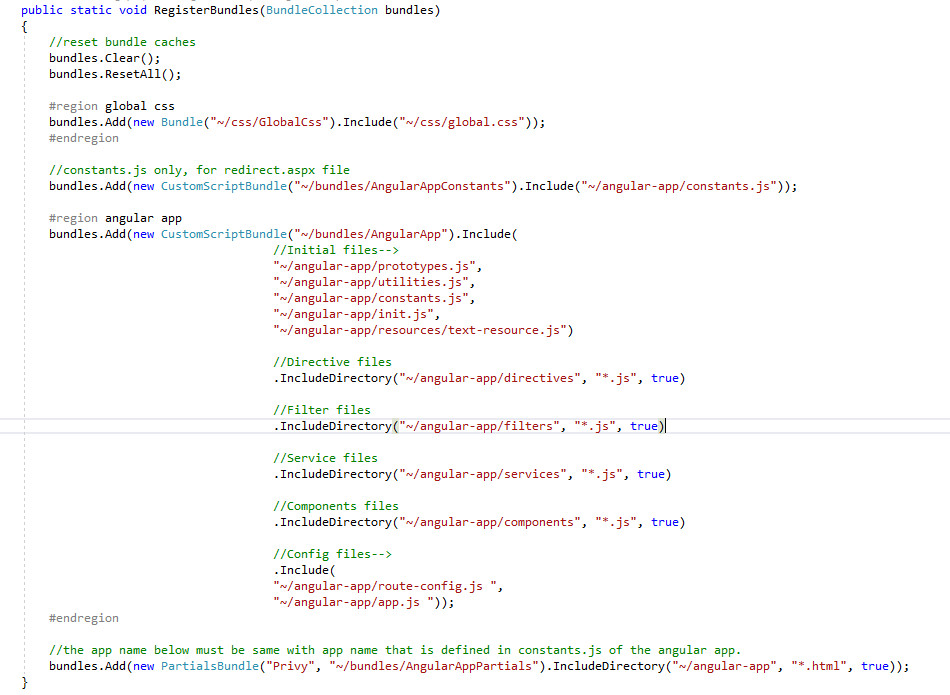
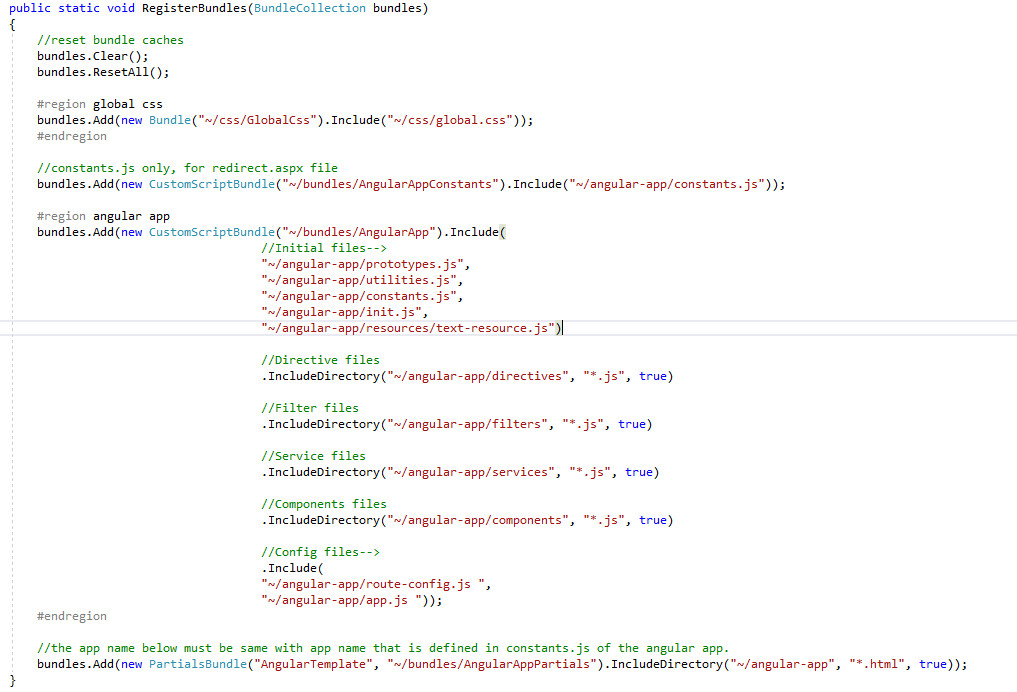
change bundle.jpg

diff --git a/AngularTemplate/AngularTemplate.ASPWebForm/App_Start/BundleConfig.cs b/AngularTemplate/AngularTemplate.ASPWebForm/App_Start/BundleConfig.cs
@@ -53,7 +53,7 @@ namespace AngularTemplate.ASPWebForm
             #endregion
 
             //the app name below must be same with app name that is defined in constants.js of the angular app.
-            bundles.Add(new PartialsBundle("Privy", "~/bundles/AngularAppPartials").IncludeDirectory("~/angular-app", "*.html", true));
+            bundles.Add(new PartialsBundle("AngularTemplate", "~/bundles/AngularAppPartials").IncludeDirectory("~/angular-app", "*.html", true));
         }
     }
 
